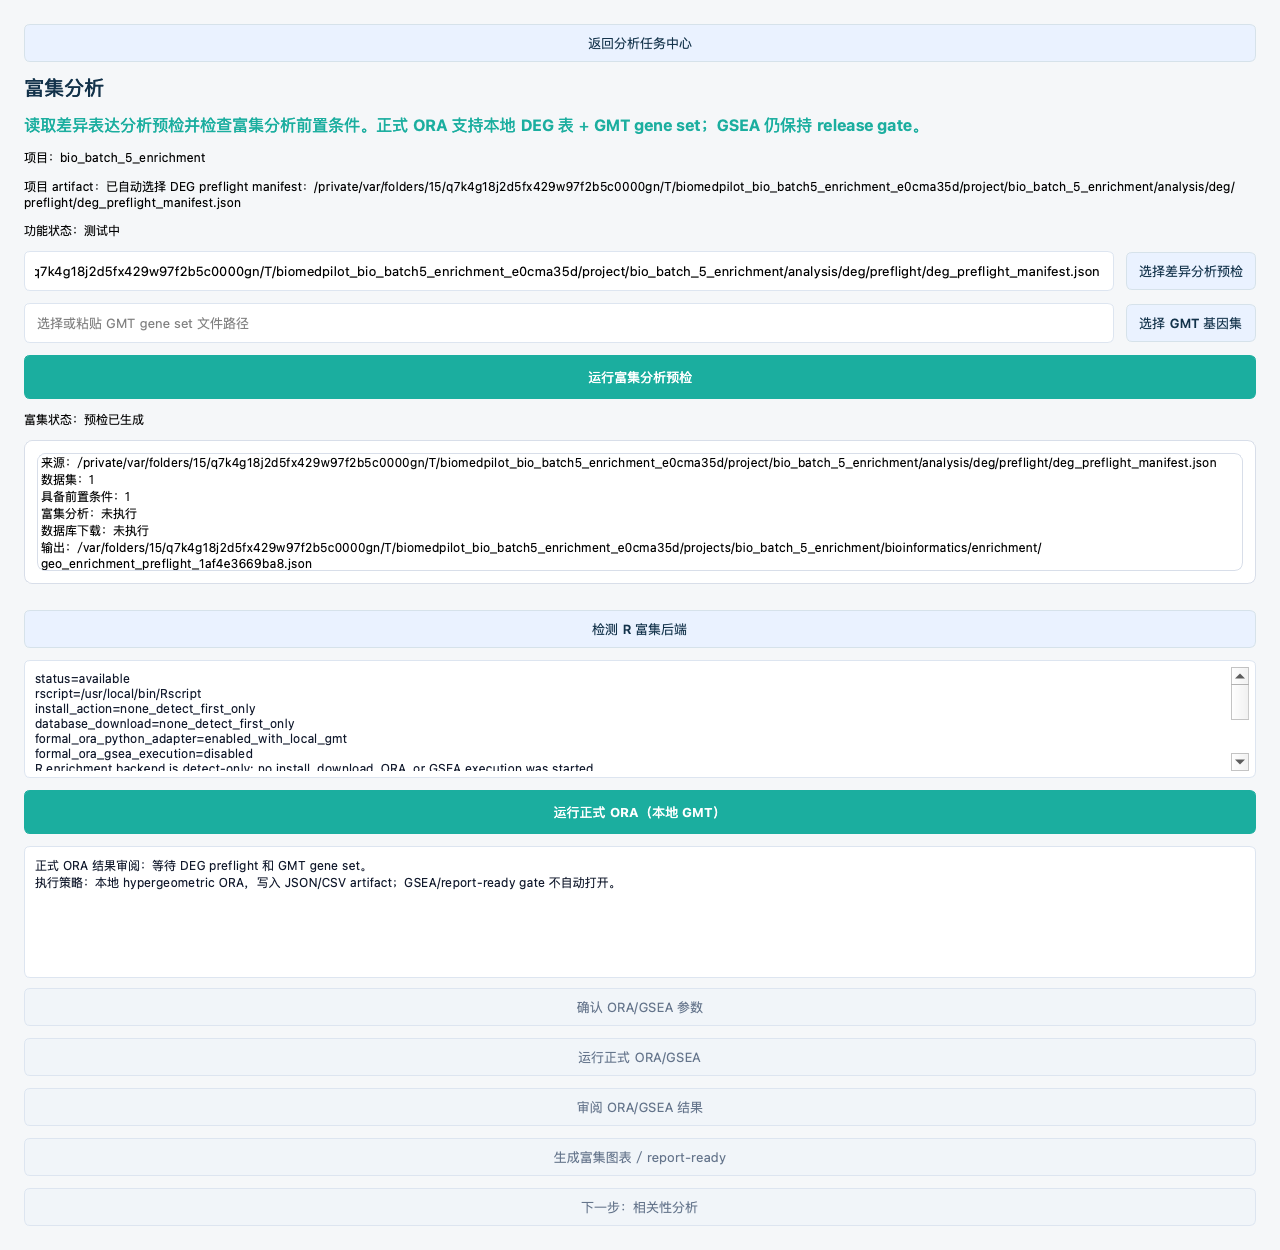
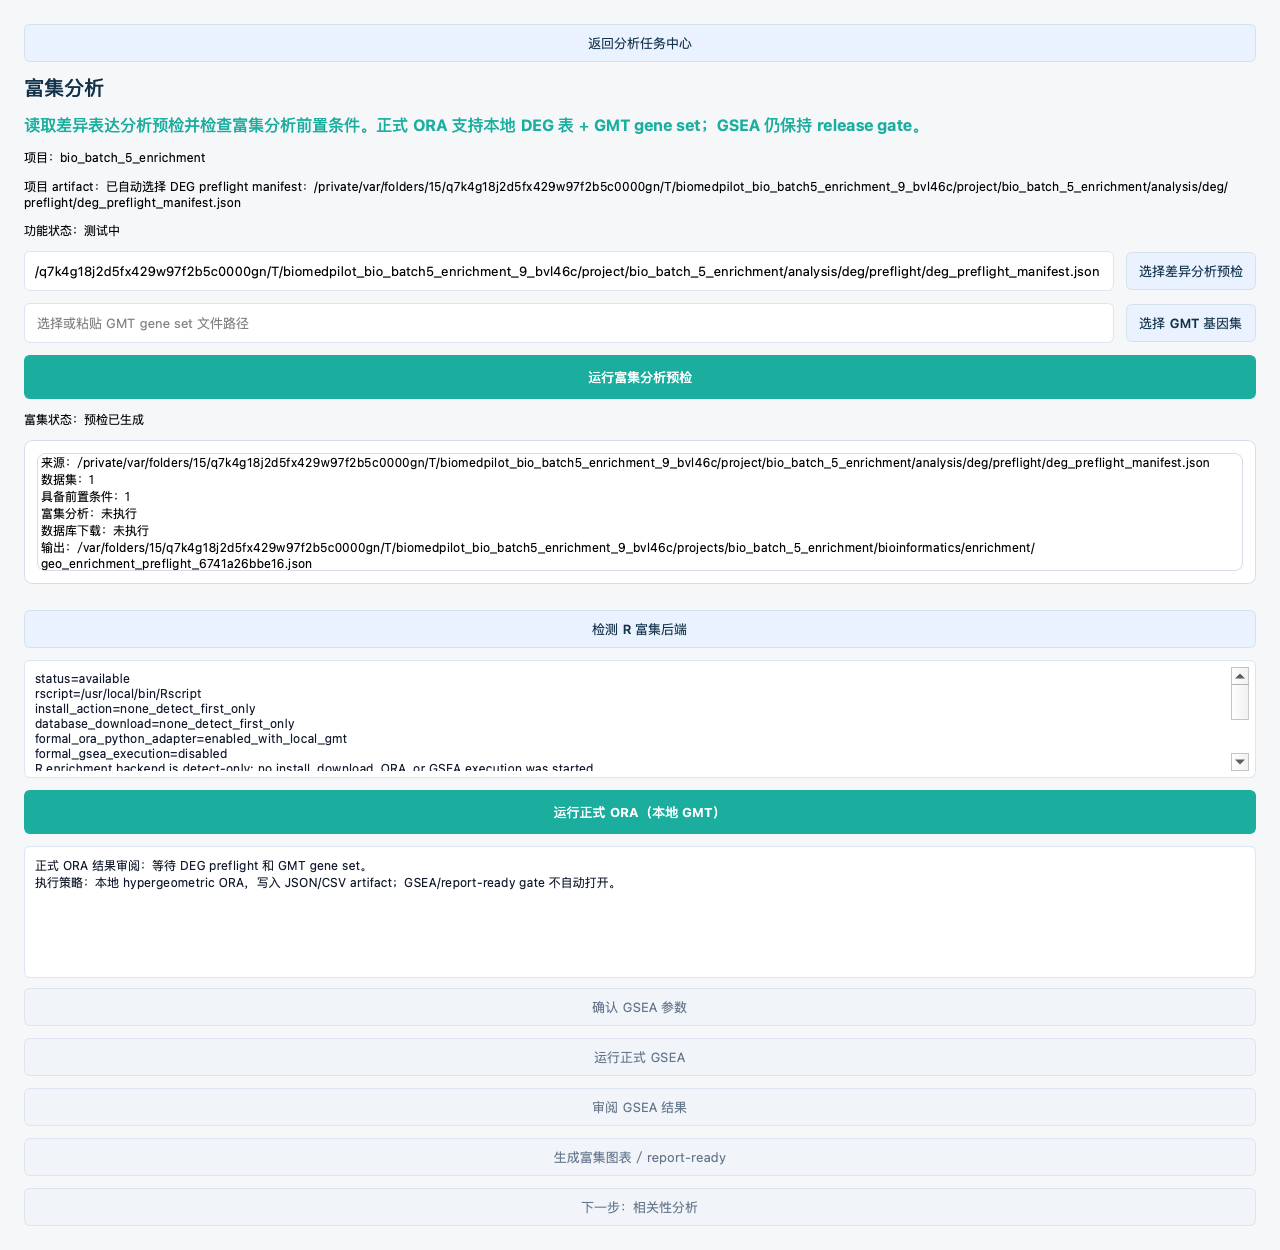
fix(bio): clarify gsea gates after formal ora wiring

diff --git a/app/bioinformatics/pages/enrichment_page.py b/app/bioinformatics/pages/enrichment_page.py
@@ -188,49 +188,49 @@ if QWidget is not None:
             )
             root.addWidget(self._formal_ora_review_text)
 
-            confirm_button = QPushButton("确认 ORA/GSEA 参数")
+            confirm_button = QPushButton("确认 GSEA 参数")
             confirm_button.setObjectName("confirmOraGseaParametersDisabledButton")
             confirm_button.setEnabled(False)
-            confirm_button.setProperty("buttonBehavior", "disabled_ora_gsea_parameter_confirmation_not_ready")
-            confirm_button.setProperty("disabledReason", "formal_ora_gsea_parameter_confirmation_requires_backend_and_result_schema")
+            confirm_button.setProperty("buttonBehavior", "disabled_gsea_parameter_confirmation_not_ready")
+            confirm_button.setProperty("disabledReason", "formal_gsea_parameter_confirmation_requires_ranked_gene_list_gene_set_backend_and_result_schema")
             confirm_button.setProperty("formalActionEnabled", False)
-            confirm_button.setToolTip("disabled：需要通过 R 后端检测、输入 schema、基因集资源和结果 schema gate 后才能确认正式 ORA/GSEA 参数。")
+            confirm_button.setToolTip("disabled：需要 ranked gene list、gene set source、fgsea/clusterProfiler backend 和 GSEA result schema。")
             root.addWidget(confirm_button)
 
-            run_formal_button = QPushButton("运行正式 ORA/GSEA")
+            run_formal_button = QPushButton("运行正式 GSEA")
             run_formal_button.setObjectName("runFormalOraGseaDisabledButton")
             run_formal_button.setEnabled(False)
-            run_formal_button.setProperty("buttonBehavior", "disabled_formal_ora_gsea_executor_not_connected")
-            run_formal_button.setProperty("disabledReason", "formal_ora_gsea_executor_not_connected")
+            run_formal_button.setProperty("buttonBehavior", "disabled_formal_gsea_executor_not_connected")
+            run_formal_button.setProperty("disabledReason", "formal_gsea_executor_requires_fgsea_or_clusterprofiler_ranked_gene_list_and_gene_set_schema")
             run_formal_button.setProperty("formalActionEnabled", False)
-            run_formal_button.setToolTip("disabled：当前只生成 ORA/GSEA preflight artifact，正式 ORA/GSEA executor 尚未纳入 release gate。")
+            run_formal_button.setToolTip("disabled：Formal ORA 已通过本地 GMT adapter 接入；GSEA 仍需要 fgsea/clusterProfiler、ranked gene list 和结果 schema。")
             root.addWidget(run_formal_button)
 
-            review_button = QPushButton("审阅 ORA/GSEA 结果")
+            review_button = QPushButton("审阅 GSEA 结果")
             review_button.setObjectName("reviewOraGseaResultsDisabledButton")
             review_button.setEnabled(False)
-            review_button.setProperty("buttonBehavior", "disabled_ora_gsea_result_review_without_result_index")
-            review_button.setProperty("disabledReason", "ora_gsea_result_index_not_available")
+            review_button.setProperty("buttonBehavior", "disabled_gsea_result_review_without_result_index")
+            review_button.setProperty("disabledReason", "gsea_result_index_not_available")
             review_button.setProperty("formalActionEnabled", False)
-            review_button.setToolTip("disabled：没有 ORA/GSEA result index 或 manifest，不能进入结果审阅。")
+            review_button.setToolTip("disabled：没有 GSEA result index 或 manifest，不能进入 GSEA 结果审阅。Formal ORA 结果在本页 ORA 审阅区显示。")
             root.addWidget(review_button)
 
             plot_report_button = QPushButton("生成富集图表 / report-ready")
             plot_report_button.setObjectName("oraGseaPlotReportDisabledButton")
             plot_report_button.setEnabled(False)
             plot_report_button.setProperty("buttonBehavior", "disabled_ora_gsea_plot_report_gate_not_enabled")
-            plot_report_button.setProperty("disabledReason", "ora_gsea_plot_and_report_ready_gate_not_enabled")
+            plot_report_button.setProperty("disabledReason", "ora_plot_gsea_plot_and_report_ready_gate_not_enabled")
             plot_report_button.setProperty("formalActionEnabled", False)
-            plot_report_button.setToolTip("disabled：正式 ORA/GSEA plot、report-ready package 和导出 gate 尚未接入。")
+            plot_report_button.setToolTip("disabled：Formal ORA 结果表已接入；ORA/GSEA plot、report-ready package 和导出 gate 尚未接入。")
             root.addWidget(plot_report_button)
 
             next_button = QPushButton("下一步：相关性分析")
             next_button.setObjectName("enrichmentNextDisabledButton")
             next_button.setEnabled(False)
             next_button.setProperty("buttonBehavior", "disabled_correlation_and_formal_gsea_not_connected")
-            next_button.setProperty("disabledReason", "formal_ora_gsea_execution_and_correlation_gate_not_enabled")
+            next_button.setProperty("disabledReason", "formal_gsea_execution_and_correlation_gate_not_enabled")
             next_button.setProperty("formalActionEnabled", False)
-            next_button.setToolTip("disabled：相关性分析和正式 GSEA 执行不属于当前 Bio C1b 接线范围。")
+            next_button.setToolTip("disabled：相关性分析和正式 GSEA 执行不属于当前 Bio C1 接线范围。")
             root.addWidget(next_button)
             root.addStretch(1)
 
@@ -331,7 +331,7 @@ if QWidget is not None:
                 "install_action=none_detect_first_only",
                 "database_download=none_detect_first_only",
                 "formal_ora_python_adapter=enabled_with_local_gmt",
-                "formal_ora_gsea_execution=disabled",
+                "formal_gsea_execution=disabled",
                 detection.message,
             ]
             for package_name in ("ReactomePA", "msigdbr", "fgsea", "clusterProfiler"):

diff --git a/scripts/ui_route_contract_bio_batch5_enrichment.py b/scripts/ui_route_contract_bio_batch5_enrichment.py
@@ -214,7 +214,12 @@ def _audit_page_buttons(
     detect_button = _find_button(page, "detectBioEnrichmentRBackendButton")
     detect_button.click()
     detection_text = _find_plain_text(page, "bioEnrichmentRBackendDetectionText").toPlainText()
-    detect_ok = "ReactomePA:" in detection_text and "msigdbr:" in detection_text and "formal_ora_gsea_execution=disabled" in detection_text
+    detect_ok = (
+        "ReactomePA:" in detection_text
+        and "msigdbr:" in detection_text
+        and "formal_ora_python_adapter=enabled_with_local_gmt" in detection_text
+        and "formal_gsea_execution=disabled" in detection_text
+    )
     rows.append(
         _button_row(
             "BIO-ENRICHMENT-DETECT-R-BACKEND",
@@ -230,24 +235,24 @@ def _audit_page_buttons(
 
     disabled_expectations = {
         "confirmOraGseaParametersDisabledButton": (
-            "BIO-ENRICHMENT-CONFIRM-ORA-GSEA-PARAMETERS-GATE",
-            "formal_ora_gsea_parameter_confirmation_requires_backend_and_result_schema",
+            "BIO-ENRICHMENT-CONFIRM-GSEA-PARAMETERS-GATE",
+            "formal_gsea_parameter_confirmation_requires_ranked_gene_list_gene_set_backend_and_result_schema",
         ),
         "runFormalOraGseaDisabledButton": (
-            "BIO-ENRICHMENT-RUN-FORMAL-ORA-GSEA-GATE",
-            "formal_ora_gsea_executor_not_connected",
+            "BIO-ENRICHMENT-RUN-FORMAL-GSEA-GATE",
+            "formal_gsea_executor_requires_fgsea_or_clusterprofiler_ranked_gene_list_and_gene_set_schema",
         ),
         "reviewOraGseaResultsDisabledButton": (
-            "BIO-ENRICHMENT-REVIEW-RESULTS-GATE",
-            "ora_gsea_result_index_not_available",
+            "BIO-ENRICHMENT-REVIEW-GSEA-RESULTS-GATE",
+            "gsea_result_index_not_available",
         ),
         "oraGseaPlotReportDisabledButton": (
             "BIO-ENRICHMENT-PLOT-REPORT-GATE",
-            "ora_gsea_plot_and_report_ready_gate_not_enabled",
+            "ora_plot_gsea_plot_and_report_ready_gate_not_enabled",
         ),
         "enrichmentNextDisabledButton": (
             "BIO-ENRICHMENT-CORRELATION-NEXT-GATE",
-            "formal_ora_gsea_execution_and_correlation_gate_not_enabled",
+            "formal_gsea_execution_and_correlation_gate_not_enabled",
         ),
     }
     for object_name, (contract_id, disabled_reason) in disabled_expectations.items():

diff --git a/tests/ui/test_bioinformatics_workflow_pages.py b/tests/ui/test_bioinformatics_workflow_pages.py
@@ -3528,7 +3528,7 @@ def test_bio_workspace_enrichment_and_survival_gate_pages_call_services(qt_app, 
     assert enrichment_disabled is not None
     assert not enrichment_disabled.isEnabled()
     assert enrichment_disabled.property("buttonBehavior") == "disabled_correlation_and_formal_gsea_not_connected"
-    assert enrichment_disabled.property("disabledReason") == "formal_ora_gsea_execution_and_correlation_gate_not_enabled"
+    assert enrichment_disabled.property("disabledReason") == "formal_gsea_execution_and_correlation_gate_not_enabled"
     assert "disabled" in enrichment_disabled.toolTip()
 
     detect_backend = widget._enrichment_page.findChild(QPushButton, "detectBioEnrichmentRBackendButton")
@@ -3545,14 +3545,15 @@ def test_bio_workspace_enrichment_and_survival_gate_pages_call_services(qt_app, 
     backend_result = backend_detection_text.toPlainText()
     assert "ReactomePA:" in backend_result
     assert "msigdbr:" in backend_result
-    assert "formal_ora_gsea_execution=disabled" in backend_result
+    assert "formal_ora_python_adapter=enabled_with_local_gmt" in backend_result
+    assert "formal_gsea_execution=disabled" in backend_result
     assert "install_action=none_detect_first_only" in backend_result
 
     ora_gsea_disabled_buttons = {
-        "confirmOraGseaParametersDisabledButton": "formal_ora_gsea_parameter_confirmation_requires_backend_and_result_schema",
-        "runFormalOraGseaDisabledButton": "formal_ora_gsea_executor_not_connected",
-        "reviewOraGseaResultsDisabledButton": "ora_gsea_result_index_not_available",
-        "oraGseaPlotReportDisabledButton": "ora_gsea_plot_and_report_ready_gate_not_enabled",
+        "confirmOraGseaParametersDisabledButton": "formal_gsea_parameter_confirmation_requires_ranked_gene_list_gene_set_backend_and_result_schema",
+        "runFormalOraGseaDisabledButton": "formal_gsea_executor_requires_fgsea_or_clusterprofiler_ranked_gene_list_and_gene_set_schema",
+        "reviewOraGseaResultsDisabledButton": "gsea_result_index_not_available",
+        "oraGseaPlotReportDisabledButton": "ora_plot_gsea_plot_and_report_ready_gate_not_enabled",
     }
     for object_name, disabled_reason in ora_gsea_disabled_buttons.items():
         button = widget._enrichment_page.findChild(QPushButton, object_name)

diff --git a/scripts/ui_route_contract_bio_batch14_formal_ora.py b/scripts/ui_route_contract_bio_batch14_formal_ora.py
@@ -278,15 +278,15 @@ def _live_click_formal_ora(
     disabled_expectations = {
         "runFormalOraGseaDisabledButton": (
             "BIO-FORMAL-GSEA-RUN-GATE",
-            "formal_ora_gsea_executor_not_connected",
+            "formal_gsea_executor_requires_fgsea_or_clusterprofiler_ranked_gene_list_and_gene_set_schema",
         ),
         "oraGseaPlotReportDisabledButton": (
             "BIO-FORMAL-ORA-PLOT-REPORT-GATE",
-            "ora_gsea_plot_and_report_ready_gate_not_enabled",
+            "ora_plot_gsea_plot_and_report_ready_gate_not_enabled",
         ),
         "enrichmentNextDisabledButton": (
             "BIO-FORMAL-ORA-CORRELATION-NEXT-GATE",
-            "formal_ora_gsea_execution_and_correlation_gate_not_enabled",
+            "formal_gsea_execution_and_correlation_gate_not_enabled",
         ),
     }
     for object_name, (contract_id, disabled_reason) in disabled_expectations.items():

diff --git a/docs/project-control/UI_ROUTE_CONTRACT_BIO_BATCH1.md b/docs/project-control/UI_ROUTE_CONTRACT_BIO_BATCH1.md
@@ -1,8 +1,8 @@
 # UI Route Contract Bio Batch 1
 
-- Created: `2026-06-01T14:52:18.300371+00:00`
+- Created: `2026-06-02T11:27:40.147354+00:00`
 - Branch: `integration/release-bio-c1-ui-shell`
-- HEAD: `933c39b7a1d51a5c76d6824502b787d7d861efaa`
+- HEAD: `731b11547ae83cc3ef0fdde904a8f7f0e545591b`
 - Scope: Bioinformatics mature 7-step gated UI shell adapter and first-level runtime gate audit.
 
 ## Summary
@@ -11,22 +11,6 @@
 - Connected: 22
 - Disabled with reason: 5
 - Broken: 0
-
-## Screenshots
-
-Runtime screenshots for this batch are stored under:
-
-`docs/ui/runtime_screenshots/20260601_bio_batch1_route_contract/`
-
-- `01_project_home.png`
-- `02_data_source.png`
-- `03_data_check_recognition.png`
-- `04_group_design.png`
-- `05_analysis_tasks.png`
-- `06_result_report.png`
-- `07_report_export.png`
-- `08_settings_resources.png`
-- `09_project_logs_technical_details.png`
 
 ## Rows
 
@@ -41,21 +25,21 @@ Runtime screenshots for this batch are stored under:
 | BIO-IA-REPORT_EXPORT | Bioinformatics Target IA | `bioinformaticsIANavItem` | connected | `navigates_to_bio_target_ia_page_report_export` | current_target_page_key=report_export |
 | BIO-IA-SETTINGS_RESOURCES | Bioinformatics Target IA | `bioinformaticsIANavItem` | connected | `navigates_to_bio_target_ia_page_settings_resources` | current_target_page_key=settings_resources |
 | BIO-IA-PROJECT_LOGS_TECHNICAL_DETAILS | Bioinformatics Target IA | `bioinformaticsIANavItem` | connected | `navigates_to_bio_target_ia_page_project_logs_technical_details` | current_target_page_key=project_logs_technical_details |
-| BIO-DATA-SOURCE-GEO | Data Source | `bioinformaticsDataSourceSelectPreviewButton` | connected | `creates_data_source_request_draft_when_project_open` | /private/var/folders/15/q7k4g18j2d5fx429w97f2b5c0000gn/T/biomedpilot_bio_batch1_7zzxemrb/project/bio_batch_1_contract/manifests/data_source_requests/dsr-d9dfe02ff4.json; status=draft; source=geo |
-| BIO-DATA-SOURCE-TCGA | Data Source | `bioinformaticsDataSourceSelectPreviewButton` | connected | `creates_data_source_request_draft_when_project_open` | /private/var/folders/15/q7k4g18j2d5fx429w97f2b5c0000gn/T/biomedpilot_bio_batch1_7zzxemrb/project/bio_batch_1_contract/manifests/data_source_requests/dsr-06a4f3397c.json; status=draft; source=tcga |
-| BIO-DATA-SOURCE-GTEX | Data Source | `bioinformaticsDataSourceSelectPreviewButton` | connected | `creates_data_source_request_draft_when_project_open` | /private/var/folders/15/q7k4g18j2d5fx429w97f2b5c0000gn/T/biomedpilot_bio_batch1_7zzxemrb/project/bio_batch_1_contract/manifests/data_source_requests/dsr-294d0b6285.json; status=draft; source=gtex |
-| BIO-DATA-SOURCE-LOCAL_FILE | Data Source | `bioinformaticsDataSourceSelectPreviewButton` | connected | `creates_data_source_request_draft_when_project_open` | /private/var/folders/15/q7k4g18j2d5fx429w97f2b5c0000gn/T/biomedpilot_bio_batch1_7zzxemrb/project/bio_batch_1_contract/manifests/data_source_requests/dsr-220cd92829.json; status=draft; source=local_file |
-| BIO-DATA-CHECK-RECOGNITION | Data Check & Preparation | `primaryButton` | connected | `runs_bio_preflight_or_gated_service` | /private/var/folders/15/q7k4g18j2d5fx429w97f2b5c0000gn/T/biomedpilot_bio_batch1_7zzxemrb/project/bio_batch_1_contract/logs/recognition/recognition_report.json |
-| BIO-DATA-CHECK-READINESS | Data Check & Preparation | `bioinformaticsRunDataCheckButton` | connected | `runs_bio_preflight_or_gated_service` | /private/var/folders/15/q7k4g18j2d5fx429w97f2b5c0000gn/T/biomedpilot_bio_batch1_7zzxemrb/project/bio_batch_1_contract/logs/readiness/readiness_report.json |
-| BIO-DATA-CHECK-STANDARDIZATION | Data Check & Preparation | `primaryButton` | connected | `writes_bio_project_draft_or_artifact` | /private/var/folders/15/q7k4g18j2d5fx429w97f2b5c0000gn/T/biomedpilot_bio_batch1_7zzxemrb/project/bio_batch_1_contract/manifests/standardized_assets_registry.json; /private/var/folders/15/q7k4g18j2d5fx429w97f2b5c0000gn/T/biomedpilot_bio_batch1_7zzxemrb/project/bio_batch_1_contract/standardized_data/analysis_ready_assets/analysis_ready_manifest.json; /private/var/folders/15/q7k4g18j2d5fx429w97f2b5c0000gn/T/biomedpilot_bio_batch1_7zzxemrb/project/bio_batch_1_contract/standardized_data/repositories/repository_manifest.json |
+| BIO-DATA-SOURCE-GEO | Data Source | `bioinformaticsDataSourceSelectPreviewButton` | connected | `creates_data_source_request_draft_when_project_open` | /private/var/folders/15/q7k4g18j2d5fx429w97f2b5c0000gn/T/biomedpilot_bio_batch1_gh2361_m/project/bio_batch_1_contract/manifests/data_source_requests/dsr-a509b7097c.json; status=draft; source=geo |
+| BIO-DATA-SOURCE-TCGA | Data Source | `bioinformaticsDataSourceSelectPreviewButton` | connected | `creates_data_source_request_draft_when_project_open` | /private/var/folders/15/q7k4g18j2d5fx429w97f2b5c0000gn/T/biomedpilot_bio_batch1_gh2361_m/project/bio_batch_1_contract/manifests/data_source_requests/dsr-aad8b1ddd3.json; status=draft; source=tcga |
+| BIO-DATA-SOURCE-GTEX | Data Source | `bioinformaticsDataSourceSelectPreviewButton` | connected | `creates_data_source_request_draft_when_project_open` | /private/var/folders/15/q7k4g18j2d5fx429w97f2b5c0000gn/T/biomedpilot_bio_batch1_gh2361_m/project/bio_batch_1_contract/manifests/data_source_requests/dsr-794ffaa6ba.json; status=draft; source=gtex |
+| BIO-DATA-SOURCE-LOCAL_FILE | Data Source | `bioinformaticsDataSourceSelectPreviewButton` | connected | `creates_data_source_request_draft_when_project_open` | /private/var/folders/15/q7k4g18j2d5fx429w97f2b5c0000gn/T/biomedpilot_bio_batch1_gh2361_m/project/bio_batch_1_contract/manifests/data_source_requests/dsr-b0efdf02d9.json; status=draft; source=local_file |
+| BIO-DATA-CHECK-RECOGNITION | Data Check & Preparation | `bioinformaticsRunRecognitionButton` | connected | `runs_bio_preflight_or_gated_service` | /private/var/folders/15/q7k4g18j2d5fx429w97f2b5c0000gn/T/biomedpilot_bio_batch1_gh2361_m/project/bio_batch_1_contract/logs/recognition/recognition_report.json |
+| BIO-DATA-CHECK-READINESS | Data Check & Preparation | `bioinformaticsRunDataCheckButton` | connected | `runs_bio_preflight_or_gated_service` | /private/var/folders/15/q7k4g18j2d5fx429w97f2b5c0000gn/T/biomedpilot_bio_batch1_gh2361_m/project/bio_batch_1_contract/logs/readiness/readiness_report.json |
+| BIO-DATA-CHECK-STANDARDIZATION | Data Check & Preparation | `primaryButton` | connected | `writes_bio_project_draft_or_artifact` | /private/var/folders/15/q7k4g18j2d5fx429w97f2b5c0000gn/T/biomedpilot_bio_batch1_gh2361_m/project/bio_batch_1_contract/manifests/standardized_assets_registry.json; /private/var/folders/15/q7k4g18j2d5fx429w97f2b5c0000gn/T/biomedpilot_bio_batch1_gh2361_m/project/bio_batch_1_contract/standardized_data/analysis_ready_assets/analysis_ready_manifest.json; /private/var/folders/15/q7k4g18j2d5fx429w97f2b5c0000gn/T/biomedpilot_bio_batch1_gh2361_m/project/bio_batch_1_contract/standardized_data/repositories/repository_manifest.json |
 | BIO-ANALYSIS-FORMAL-DEG-CONFIRM | Analysis Tasks | `analysisTaskConfirmFormalDegParametersButton` | disabled | `writes_formal_deg_parameter_confirmation` | requires_formal_deg_parameter_manifest_and_dependency_snapshot |
 | BIO-ANALYSIS-FORMAL-DEG-RUN | Analysis Tasks | `analysisTaskRunFormalControlledDegButton` | disabled | `runs_formal_controlled_deg_when_gate_passes` | requires_confirmed_formal_deg_gate |
 | BIO-ANALYSIS-ENRICHMENT-OPEN | Analysis Tasks | `openEnrichmentGateButton` | connected | `opens_enrichment_preflight_gate_page` | current_page=bioinformaticsEnrichmentPage |
-| BIO-ANALYSIS-ENRICHMENT-REPORT-GATE | Enrichment | `enrichmentNextDisabledButton` | disabled | `disabled_correlation_and_formal_gsea_not_connected` | formal_ora_gsea_execution_and_correlation_gate_not_enabled |
-| BIO-ANALYSIS-ENRICHMENT-RUN | Enrichment | `runEnrichmentPreflightButton` | connected | `calls_enrichment_service_create_preflight_artifact` | /var/folders/15/q7k4g18j2d5fx429w97f2b5c0000gn/T/biomedpilot_bio_batch1_7zzxemrb/projects/bio_batch_1_contract/bioinformatics/enrichment/geo_enrichment_preflight_ce7283fe7e0e.json |
+| BIO-ANALYSIS-ENRICHMENT-REPORT-GATE | Enrichment | `enrichmentNextDisabledButton` | disabled | `disabled_correlation_and_formal_gsea_not_connected` | formal_gsea_execution_and_correlation_gate_not_enabled |
+| BIO-ANALYSIS-ENRICHMENT-RUN | Enrichment | `runEnrichmentPreflightButton` | connected | `calls_enrichment_service_create_preflight_artifact` | /var/folders/15/q7k4g18j2d5fx429w97f2b5c0000gn/T/biomedpilot_bio_batch1_gh2361_m/projects/bio_batch_1_contract/bioinformatics/enrichment/geo_enrichment_preflight_ab4caadd1ccb.json |
 | BIO-ANALYSIS-SURVIVAL-OPEN | Analysis Tasks | `openSurvivalClinicalGateButton` | connected | `opens_survival_clinical_preflight_gate_page` | current_page=bioinformaticsSurvivalPage |
-| BIO-ANALYSIS-SURVIVAL-REPORT-GATE | Survival / Clinical | `survivalReportExportDisabledButton` | disabled | `disabled_survival_clinical_report_ready_not_connected` | km_cox_logrank_risk_score_and_clinical_report_ready_gate_not_enabled |
-| BIO-ANALYSIS-SURVIVAL-RUN | Survival / Clinical | `runSurvivalPreflightButton` | connected | `calls_survival_service_create_preflight_artifact` | /var/folders/15/q7k4g18j2d5fx429w97f2b5c0000gn/T/biomedpilot_bio_batch1_7zzxemrb/projects/bio_batch_1_contract/bioinformatics/survival/geo_survival_preflight_09e0a237e846.json |
-| BIO-RESULT-REPORT-REFRESH | Result & Report | `resultReportRefreshButton` | connected | `calls_load_result_index_and_formal_deg_gates` | project_root=/private/var/folders/15/q7k4g18j2d5fx429w97f2b5c0000gn/T/biomedpilot_bio_batch1_7zzxemrb/project/bio_batch_1_contract |
-| BIO-REPORT-EXPORT-DRAFT | Report Export | `reportExportRefreshDraftButton` | connected | `generates_markdown_report_draft_only` | /private/var/folders/15/q7k4g18j2d5fx429w97f2b5c0000gn/T/biomedpilot_bio_batch1_7zzxemrb/project/bio_batch_1_contract/reports/project_analysis_report.md; /private/var/folders/15/q7k4g18j2d5fx429w97f2b5c0000gn/T/biomedpilot_bio_batch1_7zzxemrb/project/bio_batch_1_contract/reports/project_report_manifest.json |
+| BIO-ANALYSIS-SURVIVAL-REPORT-GATE | Survival / Clinical | `survivalReportExportDisabledButton` | disabled | `disabled_survival_clinical_report_ready_not_connected` | survival_clinical_report_ready_requires_km_logrank_cox_risk_score_results_and_gate |
+| BIO-ANALYSIS-SURVIVAL-RUN | Survival / Clinical | `runSurvivalPreflightButton` | connected | `calls_survival_service_create_preflight_artifact` | /var/folders/15/q7k4g18j2d5fx429w97f2b5c0000gn/T/biomedpilot_bio_batch1_gh2361_m/projects/bio_batch_1_contract/bioinformatics/survival/geo_survival_preflight_bb92093b4e86.json |
+| BIO-RESULT-REPORT-REFRESH | Result & Report | `resultReportRefreshButton` | connected | `calls_load_result_index_and_formal_deg_gates` | project_root=/private/var/folders/15/q7k4g18j2d5fx429w97f2b5c0000gn/T/biomedpilot_bio_batch1_gh2361_m/project/bio_batch_1_contract |
+| BIO-REPORT-EXPORT-DRAFT | Report Export | `reportExportRefreshDraftButton` | connected | `generates_markdown_report_draft_only` | /private/var/folders/15/q7k4g18j2d5fx429w97f2b5c0000gn/T/biomedpilot_bio_batch1_gh2361_m/project/bio_batch_1_contract/reports/project_analysis_report.md; /private/var/folders/15/q7k4g18j2d5fx429w97f2b5c0000gn/T/biomedpilot_bio_batch1_gh2361_m/project/bio_batch_1_contract/reports/project_report_manifest.json |
 | BIO-REPORT-EXPORT-REPORT-READY-GATE | Report Export | `reportReadyExportButton` | disabled | `exports_report_ready_package_when_gate_passes` | requires_report_ready_gate_passed |

diff --git a/docs/project-control/UI_ROUTE_CONTRACT_BIO_BATCH14_FORMAL_ORA.md b/docs/project-control/UI_ROUTE_CONTRACT_BIO_BATCH14_FORMAL_ORA.md
@@ -1,7 +1,7 @@
 # UI Route Contract: Bio Batch 14 Formal ORA
 
 - branch: `integration/release-bio-c1-ui-shell`
-- head: `396645e24b7fc3628b44bd7030107f737d4a358f`
+- head: `731b11547ae83cc3ef0fdde904a8f7f0e545591b`
 - scope: Bioinformatics formal ORA positive runtime path from mature Enrichment page: DEG preflight selection, GMT selection, local ORA execution, result review, artifact registry, and GSEA/report gates.
 - rows: 7
 - connected: 4
@@ -17,10 +17,10 @@
 
 | Contract | Object | Status | Behavior | Evidence | Observed |
 | --- | --- | --- | --- | --- | --- |
-| BIO-FORMAL-ORA-CHOOSE-DEG-PREFLIGHT | `chooseEnrichmentPreflightButton` | connected | `selects_deg_preflight_manifest_json` | /private/var/folders/15/q7k4g18j2d5fx429w97f2b5c0000gn/T/biomedpilot_bio_batch14_formal_ora_b6rcvytg/project/bio_batch_14_formal_ora/analysis/deg/preflight/deg_preflight_manifest.json | path_input=/private/var/folders/15/q7k4g18j2d5fx429w97f2b5c0000gn/T/biomedpilot_bio_batch14_formal_ora_b6rcvytg/project/bio_batch_14_formal_ora/analysis/deg/preflight/deg_preflight_manifest.json |
-| BIO-FORMAL-ORA-CHOOSE-GMT | `chooseFormalOraGeneSetButton` | connected | `selects_local_gmt_gene_set_for_formal_ora` | /private/var/folders/15/q7k4g18j2d5fx429w97f2b5c0000gn/T/biomedpilot_bio_batch14_formal_ora_b6rcvytg/project/bio_batch_14_formal_ora/user_data/bioinformatics/gene_sets/batch14_pathways.gmt | gene_set_input=/private/var/folders/15/q7k4g18j2d5fx429w97f2b5c0000gn/T/biomedpilot_bio_batch14_formal_ora_b6rcvytg/project/bio_batch_14_formal_ora/user_data/bioinformatics/gene_sets/batch14_pathways.gmt |
-| BIO-FORMAL-ORA-RUN | `runFormalOraButton` | connected | `calls_enrichment_service_run_formal_ora_with_local_gmt` | json=/private/var/folders/15/q7k4g18j2d5fx429w97f2b5c0000gn/T/biomedpilot_bio_batch14_formal_ora_b6rcvytg/project/bio_batch_14_formal_ora/results/enrichment/formal-ora-ac0d669577.json; csv=/private/var/folders/15/q7k4g18j2d5fx429w97f2b5c0000gn/T/biomedpilot_bio_batch14_formal_ora_b6rcvytg/project/bio_batch_14_formal_ora/results/enrichment/formal-ora-ac0d669577.csv; result_index=/private/var/folders/15/q7k4g18j2d5fx429w97f2b5c0000gn/T/biomedpilot_bio_batch14_formal_ora_b6rcvytg/project/bio_batch_14_formal_ora/results/summaries/result_index.json | formal_ora_executed=True; term_count=3 |
-| BIO-FORMAL-ORA-REVIEW-AND-REGISTRY | `formalOraResultReviewText` | connected | `renders_formal_ora_result_review_after_run` | tasks=/var/folders/15/q7k4g18j2d5fx429w97f2b5c0000gn/T/biomedpilot_bio_batch14_formal_ora_b6rcvytg/formal_ora_tasks.json; assets=/var/folders/15/q7k4g18j2d5fx429w97f2b5c0000gn/T/biomedpilot_bio_batch14_formal_ora_b6rcvytg/formal_ora_assets.json | result_id=formal-ora-ac0d669577 |
-| BIO-FORMAL-GSEA-RUN-GATE | `runFormalOraGseaDisabledButton` | disabled | `disabled_formal_ora_gsea_executor_not_connected` | formal_ora_gsea_executor_not_connected | enabled=False; disabledReason=formal_ora_gsea_executor_not_connected |
-| BIO-FORMAL-ORA-PLOT-REPORT-GATE | `oraGseaPlotReportDisabledButton` | disabled | `disabled_ora_gsea_plot_report_gate_not_enabled` | ora_gsea_plot_and_report_ready_gate_not_enabled | enabled=False; disabledReason=ora_gsea_plot_and_report_ready_gate_not_enabled |
-| BIO-FORMAL-ORA-CORRELATION-NEXT-GATE | `enrichmentNextDisabledButton` | disabled | `disabled_correlation_and_formal_gsea_not_connected` | formal_ora_gsea_execution_and_correlation_gate_not_enabled | enabled=False; disabledReason=formal_ora_gsea_execution_and_correlation_gate_not_enabled |
+| BIO-FORMAL-ORA-CHOOSE-DEG-PREFLIGHT | `chooseEnrichmentPreflightButton` | connected | `selects_deg_preflight_manifest_json` | /private/var/folders/15/q7k4g18j2d5fx429w97f2b5c0000gn/T/biomedpilot_bio_batch14_formal_ora_wrjo7bpc/project/bio_batch_14_formal_ora/analysis/deg/preflight/deg_preflight_manifest.json | path_input=/private/var/folders/15/q7k4g18j2d5fx429w97f2b5c0000gn/T/biomedpilot_bio_batch14_formal_ora_wrjo7bpc/project/bio_batch_14_formal_ora/analysis/deg/preflight/deg_preflight_manifest.json |
+| BIO-FORMAL-ORA-CHOOSE-GMT | `chooseFormalOraGeneSetButton` | connected | `selects_local_gmt_gene_set_for_formal_ora` | /private/var/folders/15/q7k4g18j2d5fx429w97f2b5c0000gn/T/biomedpilot_bio_batch14_formal_ora_wrjo7bpc/project/bio_batch_14_formal_ora/user_data/bioinformatics/gene_sets/batch14_pathways.gmt | gene_set_input=/private/var/folders/15/q7k4g18j2d5fx429w97f2b5c0000gn/T/biomedpilot_bio_batch14_formal_ora_wrjo7bpc/project/bio_batch_14_formal_ora/user_data/bioinformatics/gene_sets/batch14_pathways.gmt |
+| BIO-FORMAL-ORA-RUN | `runFormalOraButton` | connected | `calls_enrichment_service_run_formal_ora_with_local_gmt` | json=/private/var/folders/15/q7k4g18j2d5fx429w97f2b5c0000gn/T/biomedpilot_bio_batch14_formal_ora_wrjo7bpc/project/bio_batch_14_formal_ora/results/enrichment/formal-ora-b16490bdd4.json; csv=/private/var/folders/15/q7k4g18j2d5fx429w97f2b5c0000gn/T/biomedpilot_bio_batch14_formal_ora_wrjo7bpc/project/bio_batch_14_formal_ora/results/enrichment/formal-ora-b16490bdd4.csv; result_index=/private/var/folders/15/q7k4g18j2d5fx429w97f2b5c0000gn/T/biomedpilot_bio_batch14_formal_ora_wrjo7bpc/project/bio_batch_14_formal_ora/results/summaries/result_index.json | formal_ora_executed=True; term_count=3 |
+| BIO-FORMAL-ORA-REVIEW-AND-REGISTRY | `formalOraResultReviewText` | connected | `renders_formal_ora_result_review_after_run` | tasks=/var/folders/15/q7k4g18j2d5fx429w97f2b5c0000gn/T/biomedpilot_bio_batch14_formal_ora_wrjo7bpc/formal_ora_tasks.json; assets=/var/folders/15/q7k4g18j2d5fx429w97f2b5c0000gn/T/biomedpilot_bio_batch14_formal_ora_wrjo7bpc/formal_ora_assets.json | result_id=formal-ora-b16490bdd4 |
+| BIO-FORMAL-GSEA-RUN-GATE | `runFormalOraGseaDisabledButton` | disabled | `disabled_formal_gsea_executor_not_connected` | formal_gsea_executor_requires_fgsea_or_clusterprofiler_ranked_gene_list_and_gene_set_schema | enabled=False; disabledReason=formal_gsea_executor_requires_fgsea_or_clusterprofiler_ranked_gene_list_and_gene_set_schema |
+| BIO-FORMAL-ORA-PLOT-REPORT-GATE | `oraGseaPlotReportDisabledButton` | disabled | `disabled_ora_gsea_plot_report_gate_not_enabled` | ora_plot_gsea_plot_and_report_ready_gate_not_enabled | enabled=False; disabledReason=ora_plot_gsea_plot_and_report_ready_gate_not_enabled |
+| BIO-FORMAL-ORA-CORRELATION-NEXT-GATE | `enrichmentNextDisabledButton` | disabled | `disabled_correlation_and_formal_gsea_not_connected` | formal_gsea_execution_and_correlation_gate_not_enabled | enabled=False; disabledReason=formal_gsea_execution_and_correlation_gate_not_enabled |

diff --git a/docs/project-control/UI_ROUTE_CONTRACT_BIO_BATCH5_ENRICHMENT.md b/docs/project-control/UI_ROUTE_CONTRACT_BIO_BATCH5_ENRICHMENT.md
@@ -1,7 +1,7 @@
 # UI Route Contract: Bio Batch 5 Enrichment ORA/GSEA
 
 - branch: `integration/release-bio-c1-ui-shell`
-- head: `396645e24b7fc3628b44bd7030107f737d4a358f`
+- head: `731b11547ae83cc3ef0fdde904a8f7f0e545591b`
 - scope: Bioinformatics ORA/GSEA enrichment input gate, R backend capability detection, formal execution disabled gates, result review, plot, and report-ready gates.
 - rows: 9
 - connected: 4
@@ -17,11 +17,11 @@
 | Contract | Object | Status | Behavior | Evidence | Observed |
 | --- | --- | --- | --- | --- | --- |
 | BIO-ENRICHMENT-BACK | `enrichmentBackButton` | connected | `navigates_back_to_analysis_tasks` | signal=back_requested | back_signal=True |
-| BIO-ENRICHMENT-CHOOSE-DEG-PREFLIGHT | `chooseEnrichmentPreflightButton` | connected | `selects_deg_preflight_manifest_json` | /private/var/folders/15/q7k4g18j2d5fx429w97f2b5c0000gn/T/biomedpilot_bio_batch5_enrichment_e0cma35d/project/bio_batch_5_enrichment/analysis/deg/preflight/deg_preflight_manifest.json | path_input=/private/var/folders/15/q7k4g18j2d5fx429w97f2b5c0000gn/T/biomedpilot_bio_batch5_enrichment_e0cma35d/project/bio_batch_5_enrichment/analysis/deg/preflight/deg_preflight_manifest.json |
-| BIO-ENRICHMENT-RUN-PREFLIGHT | `runEnrichmentPreflightButton` | connected | `calls_enrichment_service_create_preflight_artifact` | /var/folders/15/q7k4g18j2d5fx429w97f2b5c0000gn/T/biomedpilot_bio_batch5_enrichment_e0cma35d/projects/bio_batch_5_enrichment/bioinformatics/enrichment/geo_enrichment_preflight_1af4e3669ba8.json | enrichment_executed=False; database_download_executed=False |
+| BIO-ENRICHMENT-CHOOSE-DEG-PREFLIGHT | `chooseEnrichmentPreflightButton` | connected | `selects_deg_preflight_manifest_json` | /private/var/folders/15/q7k4g18j2d5fx429w97f2b5c0000gn/T/biomedpilot_bio_batch5_enrichment_9_bvl46c/project/bio_batch_5_enrichment/analysis/deg/preflight/deg_preflight_manifest.json | path_input=/private/var/folders/15/q7k4g18j2d5fx429w97f2b5c0000gn/T/biomedpilot_bio_batch5_enrichment_9_bvl46c/project/bio_batch_5_enrichment/analysis/deg/preflight/deg_preflight_manifest.json |
+| BIO-ENRICHMENT-RUN-PREFLIGHT | `runEnrichmentPreflightButton` | connected | `calls_enrichment_service_create_preflight_artifact` | /var/folders/15/q7k4g18j2d5fx429w97f2b5c0000gn/T/biomedpilot_bio_batch5_enrichment_9_bvl46c/projects/bio_batch_5_enrichment/bioinformatics/enrichment/geo_enrichment_preflight_6741a26bbe16.json | enrichment_executed=False; database_download_executed=False |
 | BIO-ENRICHMENT-DETECT-R-BACKEND | `detectBioEnrichmentRBackendButton` | connected | `calls_enrichment_service_detect_r_backend` | status=available; ReactomePA: available=True version=1.50.0 disabled_reason=none; msigdbr: available=True version=26.1.0 disabled_reason=none; blockers=none | status=available |
-| BIO-ENRICHMENT-CONFIRM-ORA-GSEA-PARAMETERS-GATE | `confirmOraGseaParametersDisabledButton` | disabled | `disabled_ora_gsea_parameter_confirmation_not_ready` | formal_ora_gsea_parameter_confirmation_requires_backend_and_result_schema | enabled=False; disabledReason=formal_ora_gsea_parameter_confirmation_requires_backend_and_result_schema |
-| BIO-ENRICHMENT-RUN-FORMAL-ORA-GSEA-GATE | `runFormalOraGseaDisabledButton` | disabled | `disabled_formal_ora_gsea_executor_not_connected` | formal_ora_gsea_executor_not_connected | enabled=False; disabledReason=formal_ora_gsea_executor_not_connected |
-| BIO-ENRICHMENT-REVIEW-RESULTS-GATE | `reviewOraGseaResultsDisabledButton` | disabled | `disabled_ora_gsea_result_review_without_result_index` | ora_gsea_result_index_not_available | enabled=False; disabledReason=ora_gsea_result_index_not_available |
-| BIO-ENRICHMENT-PLOT-REPORT-GATE | `oraGseaPlotReportDisabledButton` | disabled | `disabled_ora_gsea_plot_report_gate_not_enabled` | ora_gsea_plot_and_report_ready_gate_not_enabled | enabled=False; disabledReason=ora_gsea_plot_and_report_ready_gate_not_enabled |
-| BIO-ENRICHMENT-CORRELATION-NEXT-GATE | `enrichmentNextDisabledButton` | disabled | `disabled_correlation_and_formal_gsea_not_connected` | formal_ora_gsea_execution_and_correlation_gate_not_enabled | enabled=False; disabledReason=formal_ora_gsea_execution_and_correlation_gate_not_enabled |
+| BIO-ENRICHMENT-CONFIRM-GSEA-PARAMETERS-GATE | `confirmOraGseaParametersDisabledButton` | disabled | `disabled_gsea_parameter_confirmation_not_ready` | formal_gsea_parameter_confirmation_requires_ranked_gene_list_gene_set_backend_and_result_schema | enabled=False; disabledReason=formal_gsea_parameter_confirmation_requires_ranked_gene_list_gene_set_backend_and_result_schema |
+| BIO-ENRICHMENT-RUN-FORMAL-GSEA-GATE | `runFormalOraGseaDisabledButton` | disabled | `disabled_formal_gsea_executor_not_connected` | formal_gsea_executor_requires_fgsea_or_clusterprofiler_ranked_gene_list_and_gene_set_schema | enabled=False; disabledReason=formal_gsea_executor_requires_fgsea_or_clusterprofiler_ranked_gene_list_and_gene_set_schema |
+| BIO-ENRICHMENT-REVIEW-GSEA-RESULTS-GATE | `reviewOraGseaResultsDisabledButton` | disabled | `disabled_gsea_result_review_without_result_index` | gsea_result_index_not_available | enabled=False; disabledReason=gsea_result_index_not_available |
+| BIO-ENRICHMENT-PLOT-REPORT-GATE | `oraGseaPlotReportDisabledButton` | disabled | `disabled_ora_gsea_plot_report_gate_not_enabled` | ora_plot_gsea_plot_and_report_ready_gate_not_enabled | enabled=False; disabledReason=ora_plot_gsea_plot_and_report_ready_gate_not_enabled |
+| BIO-ENRICHMENT-CORRELATION-NEXT-GATE | `enrichmentNextDisabledButton` | disabled | `disabled_correlation_and_formal_gsea_not_connected` | formal_gsea_execution_and_correlation_gate_not_enabled | enabled=False; disabledReason=formal_gsea_execution_and_correlation_gate_not_enabled |

diff --git a/docs/project-control/UI_ROUTE_CONTRACT_BIO_C1_CLOSURE_MATRIX.md b/docs/project-control/UI_ROUTE_CONTRACT_BIO_C1_CLOSURE_MATRIX.md
@@ -1,7 +1,7 @@
 # Bioinformatics C1 Closure Matrix
 
 - branch: `integration/release-bio-c1-ui-shell`
-- head: `606bb2c7881a843d4e41e381116b120248b7877d`
+- head: `731b11547ae83cc3ef0fdde904a8f7f0e545591b`
 - closure_status: `passed_with_documented_gaps`
 - ui_page_count: `7`
 - capability_row_count: `7`
@@ -15,7 +15,7 @@
 | Batch | Report | Head | Rows | Connected | Disabled | Broken |
 | --- | --- | --- | --- | --- | --- | --- |
 | `batch4_formal_deg` | `docs/project-control/UI_ROUTE_CONTRACT_BIO_BATCH4_FORMAL_DEG.json` | `8b20ac157f3c` | `8` | `8` | `0` | `0` |
-| `batch5_enrichment` | `docs/project-control/UI_ROUTE_CONTRACT_BIO_BATCH5_ENRICHMENT.json` | `396645e24b7f` | `9` | `4` | `5` | `0` |
+| `batch5_enrichment` | `docs/project-control/UI_ROUTE_CONTRACT_BIO_BATCH5_ENRICHMENT.json` | `731b11547ae8` | `9` | `4` | `5` | `0` |
 | `batch6_survival` | `docs/project-control/UI_ROUTE_CONTRACT_BIO_BATCH6_SURVIVAL.json` | `606bb2c7881a` | `9` | `4` | `5` | `0` |
 | `batch7_report_export` | `docs/project-control/UI_ROUTE_CONTRACT_BIO_BATCH7_REPORT_EXPORT.json` | `8b20ac157f3c` | `13` | `13` | `0` | `0` |
 | `batch8_visible_buttons` | `docs/project-control/UI_ROUTE_CONTRACT_BIO_BATCH8_VISIBLE_BUTTONS.json` | `b47d29ba66a4` | `94` | `56` | `38` | `0` |
@@ -24,7 +24,7 @@
 | `batch11_tcga_gtex_adapters` | `docs/project-control/UI_ROUTE_CONTRACT_BIO_BATCH11_TCGA_GTEX_ADAPTERS.json` | `c2f144f9f7b7` | `10` | `6` | `4` | `0` |
 | `batch12_tcga_gtex_light_validation` | `docs/project-control/UI_ROUTE_CONTRACT_BIO_BATCH12_TCGA_GTEX_LIGHT_VALIDATION.json` | `648ecbd9691d` | `10` | `10` | `0` | `0` |
 | `batch13_tcga_gtex_data_check` | `docs/project-control/UI_ROUTE_CONTRACT_BIO_BATCH13_TCGA_GTEX_DATA_CHECK.json` | `66e528d05d91` | `5` | `5` | `0` | `0` |
-| `batch14_formal_ora` | `docs/project-control/UI_ROUTE_CONTRACT_BIO_BATCH14_FORMAL_ORA.json` | `396645e24b7f` | `7` | `4` | `3` | `0` |
+| `batch14_formal_ora` | `docs/project-control/UI_ROUTE_CONTRACT_BIO_BATCH14_FORMAL_ORA.json` | `731b11547ae8` | `7` | `4` | `3` | `0` |
 
 ## Page Baseline Matrix
 